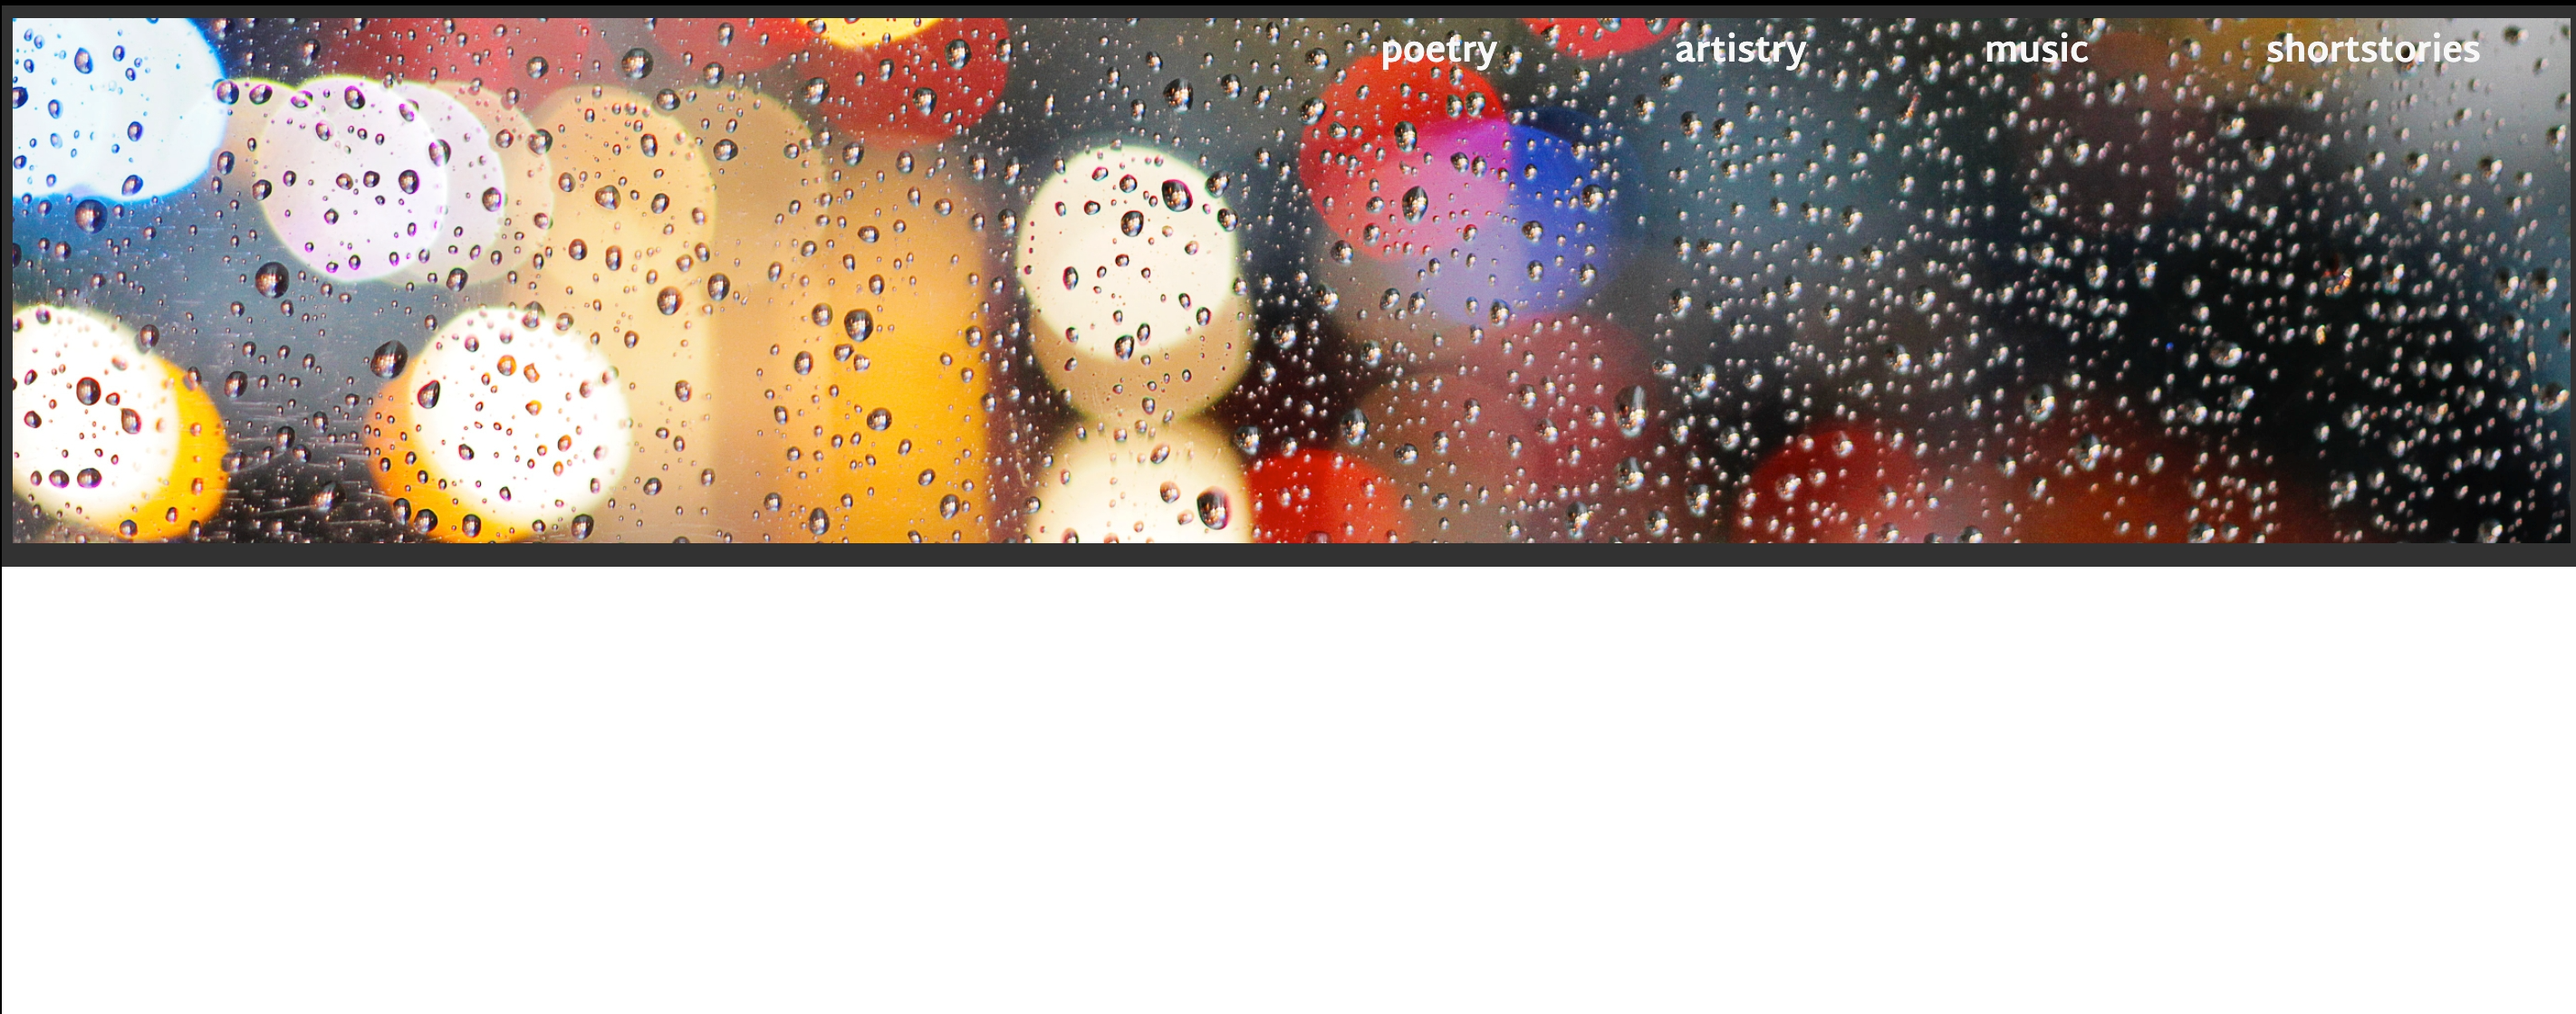
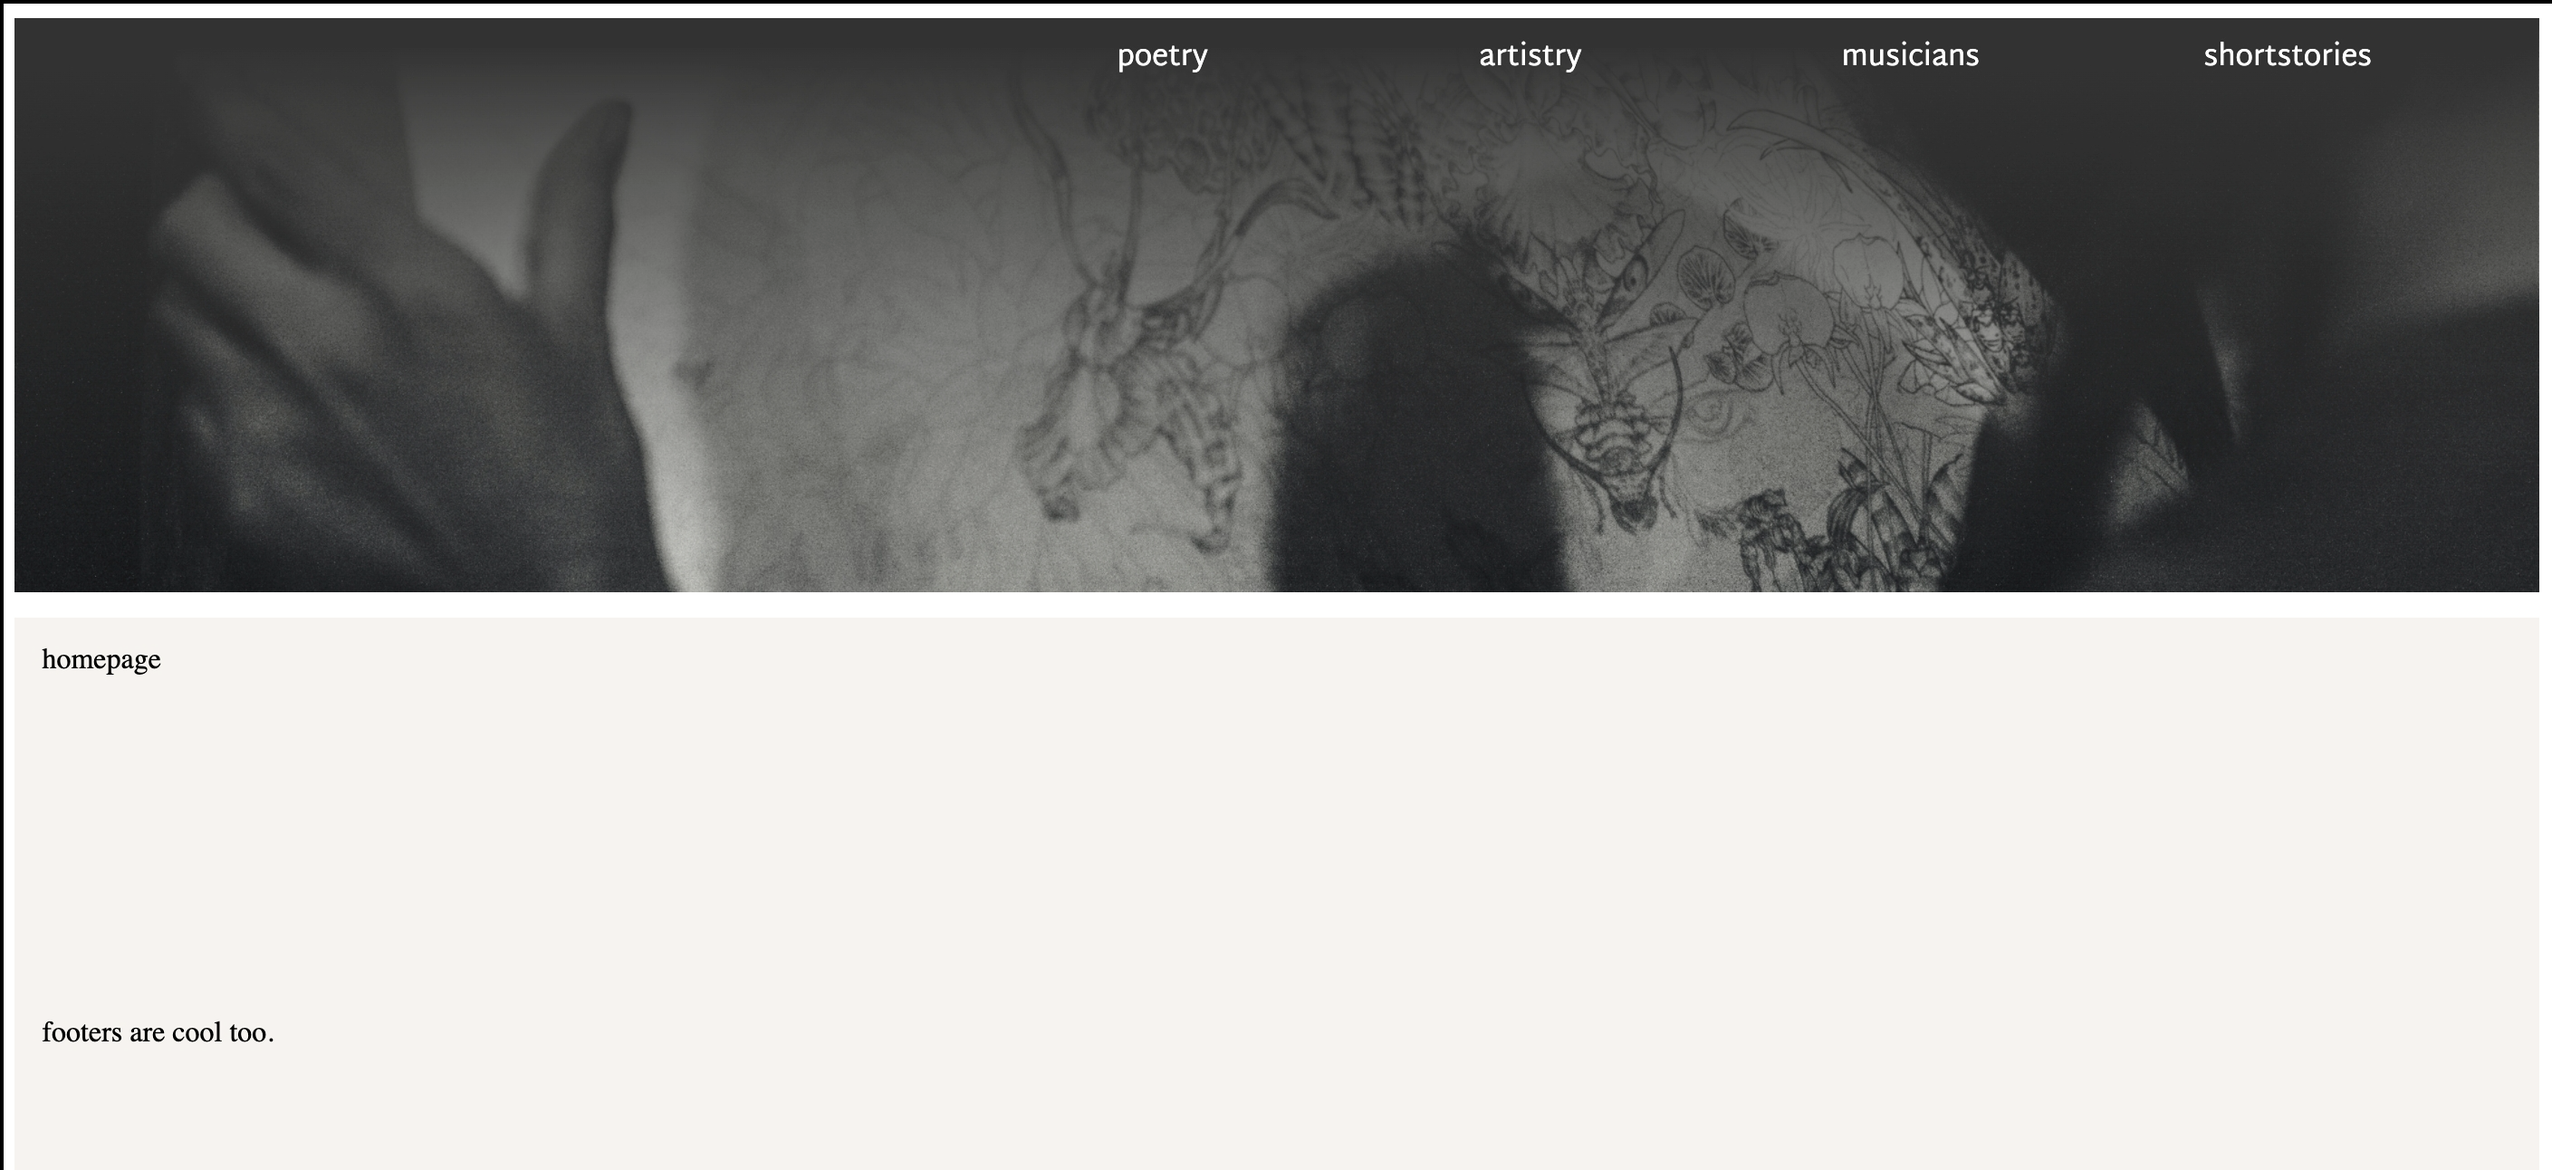
updated project image, added a blog and updated profile pic

diff --git a/src/components/bio.js b/src/components/bio.js
@@ -37,8 +37,8 @@ const Bio = () => {
           layout="fixed"
           formats={["auto", "webp", "avif"]}
           src="../images/profile-pic.jpeg"
-          width={100}
-          height={105}
+          width={300}
+          height={300}
           quality={95}
           alt="Patricia Profile Pic"
         />

diff --git a/content/blog/loop-objects/index.md b/content/blog/loop-objects/index.md
@@ -1,0 +1,65 @@
+---
+title: Looping Through Objects
+data: '2022-01-25'
+---
+
+This is some short cut notes for how to loop through objects in JavaScript. 
+
+Looping through objects.
+1. Easiest way to turn an object into an array 
+
+    const object1 = {
+    a: 'somestring',
+    b: 42
+    };
+    
+console.log(Object.entries(object1));
+
+1. Loop through using entries
+
+    const object1 = {
+    a: 'somestring',
+    b: 42
+    };
+
+    for (const [key, value] of Object.entries(object1)) {
+    console.log(`${key}: ${value}`);
+    }
+
+    // expected output:
+    // "a: somestring"
+    // "b: 42"
+
+https://developer.mozilla.org/en-US/docs/Web/JavaScript/Reference/Global_Objects/Object/entries
+
+The Object.entries() method returns an array of a given object's own enumerable string-keyed property [key, value] pairs. This is the same as iterating with a for...in loop, except that a for...in loop enumerates properties in the prototype chain as well.
+
+The order of the array returned by Object.entries() is the same as that provided by a for...in loop. If there is a need for different ordering, then the array should be sorted first, like Object.entries(obj).sort((a, b) => b[0].localeCompare(a[0]));
+
+2. The for ... in loop
+
+    const object = { a: 1, b: 2, c: 3 };
+
+    for (const property in object) {
+    console.log(`${property}: ${object[property]}`);
+    }
+
+    // expected output:
+    // "a: 1"
+    // "b: 2"
+    // "c: 3"
+
+The for...in statement iterates over all enumerable properties of an object that are keyed by strings (ignoring ones keyed by Symbols), including inherited enumerable properties.
+
+3. Getting the keys ouf of an object
+
+    const object1 = {
+    a: 'somestring',
+    b: 42,
+    c: false
+    };
+
+    console.log(Object.keys(object1));
+    // expected output: Array ["a", "b", "c"]
+
+The Object.keys() method returns an array of a given object's own enumerable property names, iterated in the same order that a normal loop would.
